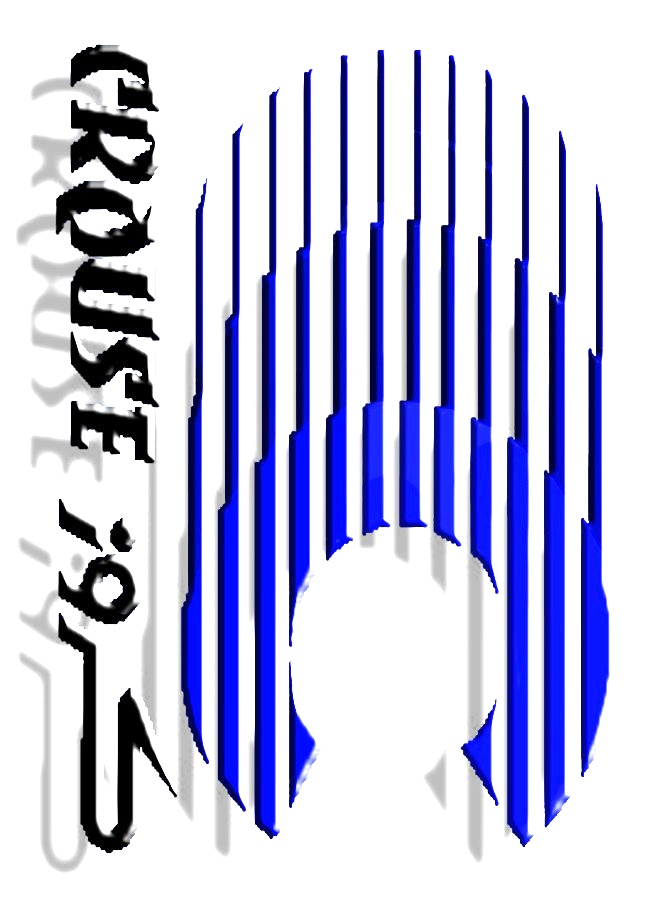
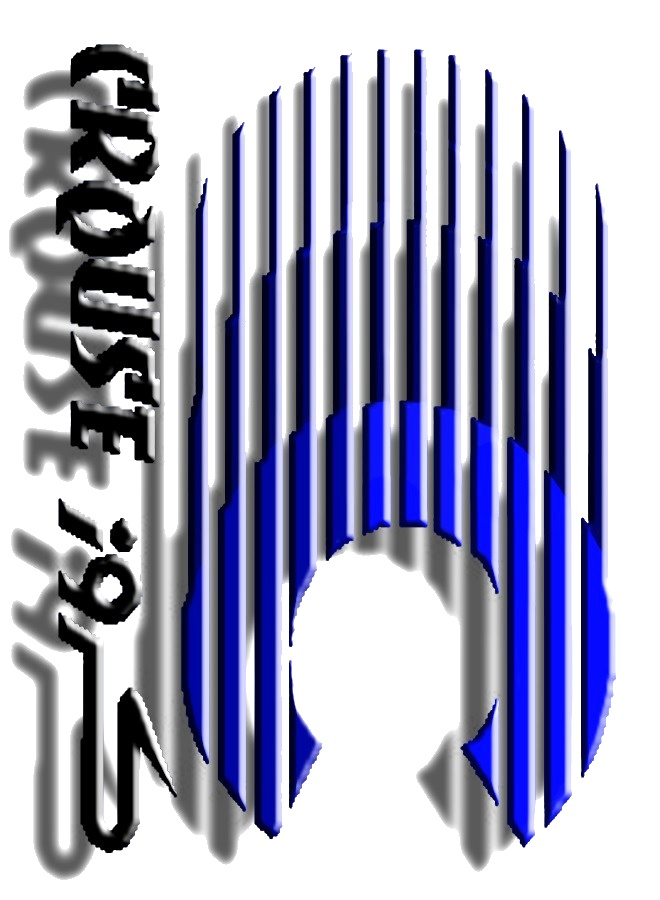
Contrast and brightness implemented

diff --git a/Tools/ContrastBrightness.py b/Tools/ContrastBrightness.py
@@ -30,6 +30,7 @@ class Tool(object):
             self.UI = self.Ui_Dialog()
 
             self.UI.setupUi(self.ContBright)
+            self.UI.buttonBox.accepted.connect(self.accepted)
             image = QPixmap(self.filenames[0])
             image = image.scaled(self.UI.ChangedLabel.width(), self.UI.ChangedLabel.height(), Qt.KeepAspectRatio)
             # self.UI.ChangedLabel.setScaledContents(True)
@@ -140,7 +141,14 @@ class Tool(object):
                     'pattern_name'] + ' \tNot Found\n\n* * * * * * * * *\n'
     def BrightnessSliderChanged(self):
         img = cv2.imread(self.filenames[0])
-        img = np.add(img, self.UI.BrightnessSlider.value())
+        img2 = np.array(img,np.int16)
+
+        img2 = np.add(img2, self.UI.BrightnessSlider.value())
+        # print(img)
+        img2[img2 > 255] = 255
+        img2[img2 < 0] = 0
+        img = np.array(img2,np.uint8)
+        # print(img)
         cv2.imwrite('X.jpg', img)
         image = QPixmap('X.jpg')
         image = image.scaled(self.UI.ChangedLabel.width(), self.UI.ChangedLabel.height(), Qt.KeepAspectRatio)
@@ -152,6 +160,7 @@ class Tool(object):
         cv2.imwrite('X.jpg',img)
         image = QPixmap('X.jpg')
         image = image.scaled(self.UI.ChangedLabel.width(), self.UI.ChangedLabel.height(), Qt.KeepAspectRatio)
+
         # self.UI.ChangedLabel.setScaledContents(True)
         self.UI.ChangedLabel.setPixmap(image)
     # TODO modify according to new tool
@@ -242,13 +251,7 @@ class Tool(object):
                                                   'pattern_name': self.PatternName.text()})
         globalVariables.timeLineFlag.value = 1
 
-    # -*- coding: utf-8 -*-
 
-    # Form implementation generated from reading ui file 'contrast_brightness.ui'
-    #
-    # Created by: PyQt5 UI code generator 5.11.3
-    #
-    # WARNING! All changes made in this file will be lost!
 
     class Ui_Dialog(object):
         def setupUi(self, Dialog):
@@ -266,17 +269,14 @@ class Tool(object):
             self.ContrastSlider.setGeometry(QtCore.QRect(30, 540, 160, 19))
             self.ContrastSlider.setMinimum(0)
             self.ContrastSlider.setMaximum(300)
-            # self.ContrastSlider.setSingleStep(1)
-            self.ContrastSlider.setProperty("value", 1)
+            self.ContrastSlider.setSingleStep(1)
+            self.ContrastSlider.setProperty("value", 100)
             self.ContrastSlider.setOrientation(QtCore.Qt.Horizontal)
             self.ContrastSlider.setObjectName("ContrastSlider")
             self.BrightnessSlider = QtWidgets.QSlider(Dialog)
             self.BrightnessSlider.setGeometry(QtCore.QRect(300, 540, 160, 19))
-            self.BrightnessSlider.setMaximum(100)
-            self.BrightnessSlider.setMinimum(0)
-            # self.BrightnessSlider.setTickPosition(QtWidgets.QSlider.TicksBelow)
-            # self.BrightnessSlider.setTickInterval(5)
-            self.BrightnessSlider.setValue(0)
+            self.BrightnessSlider.setMinimum(-200)
+            self.BrightnessSlider.setMaximum(200)
             self.BrightnessSlider.setOrientation(QtCore.Qt.Horizontal)
             self.BrightnessSlider.setObjectName("BrightnessSlider")
             self.label_2 = QtWidgets.QLabel(Dialog)
@@ -287,9 +287,15 @@ class Tool(object):
             self.label_3.setGeometry(QtCore.QRect(80, 560, 61, 20))
             self.label_3.setAlignment(QtCore.Qt.AlignCenter)
             self.label_3.setObjectName("label_3")
+            self.OutputName = QtWidgets.QLineEdit(Dialog)
+            self.OutputName.setGeometry(QtCore.QRect(120, 600, 113, 20))
+            self.OutputName.setObjectName("OutputName")
+            self.label = QtWidgets.QLabel(Dialog)
+            self.label.setGeometry(QtCore.QRect(30, 600, 81, 16))
+            self.label.setObjectName("label")
 
             self.retranslateUi(Dialog)
-            self.buttonBox.accepted.connect(Dialog.accept)
+
             self.buttonBox.rejected.connect(Dialog.reject)
             QtCore.QMetaObject.connectSlotsByName(Dialog)
 
@@ -299,4 +305,12 @@ class Tool(object):
             self.ChangedLabel.setText(_translate("Dialog", "TextLabel"))
             self.label_2.setText(_translate("Dialog", "Brightness"))
             self.label_3.setText(_translate("Dialog", "Contrast"))
-
+            self.label.setText(_translate("Dialog", "Output Name:"))
+    def accepted(self):
+        img = cv2.imread('X.jpg')
+        cv2.imwrite(self.UI.OutputName.text()+'.jpg',img)
+        self.ContBright.close()
+        globalVariables.toolsListText[self.index] = {'toolType': 'ContBright',
+                                                     'filePath': os.path.abspath(__file__),
+                                                     'fileName': os.path.basename(__file__),
+                                                     'output': self.UI.ChangedLabel.text()}

diff --git a/contrast_brightness.py b/contrast_brightness.py
@@ -22,14 +22,16 @@ class Ui_Dialog(object):
         self.ChangedLabel.setObjectName("ChangedLabel")
         self.ContrastSlider = QtWidgets.QSlider(Dialog)
         self.ContrastSlider.setGeometry(QtCore.QRect(30, 540, 160, 19))
-        self.ContrastSlider.setMaximum(100)
+        self.ContrastSlider.setMinimum(0)
+        self.ContrastSlider.setMaximum(300)
         self.ContrastSlider.setSingleStep(1)
-        self.ContrastSlider.setProperty("value", 0)
+        self.ContrastSlider.setProperty("value", 100)
         self.ContrastSlider.setOrientation(QtCore.Qt.Horizontal)
         self.ContrastSlider.setObjectName("ContrastSlider")
         self.BrightnessSlider = QtWidgets.QSlider(Dialog)
         self.BrightnessSlider.setGeometry(QtCore.QRect(300, 540, 160, 19))
-        self.BrightnessSlider.setMaximum(100)
+        self.BrightnessSlider.setMinimum(-200)
+        self.BrightnessSlider.setMaximum(200)
         self.BrightnessSlider.setOrientation(QtCore.Qt.Horizontal)
         self.BrightnessSlider.setObjectName("BrightnessSlider")
         self.label_2 = QtWidgets.QLabel(Dialog)
@@ -40,6 +42,12 @@ class Ui_Dialog(object):
         self.label_3.setGeometry(QtCore.QRect(80, 560, 61, 20))
         self.label_3.setAlignment(QtCore.Qt.AlignCenter)
         self.label_3.setObjectName("label_3")
+        self.OutputName = QtWidgets.QLineEdit(Dialog)
+        self.OutputName.setGeometry(QtCore.QRect(120, 600, 113, 20))
+        self.OutputName.setObjectName("OutputName")
+        self.label = QtWidgets.QLabel(Dialog)
+        self.label.setGeometry(QtCore.QRect(30, 600, 81, 16))
+        self.label.setObjectName("label")
 
         self.retranslateUi(Dialog)
         self.buttonBox.accepted.connect(Dialog.accept)
@@ -52,4 +60,5 @@ class Ui_Dialog(object):
         self.ChangedLabel.setText(_translate("Dialog", "TextLabel"))
         self.label_2.setText(_translate("Dialog", "Brightness"))
         self.label_3.setText(_translate("Dialog", "Contrast"))
+        self.label.setText(_translate("Dialog", "Output Name:"))
 
